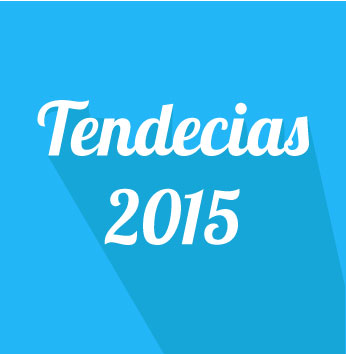
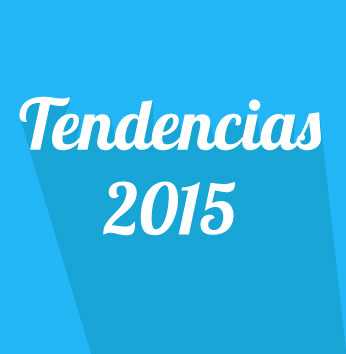
blog
se hicieron modificaciones al blog

Changed region(s): [[0.0578, 0.2486, 0.9538, 1.0], [0.9538, 0.7147, 1.0, 0.9322], [0.9827, 0.9944, 1.0, 1.0]]

diff --git a/blog.html b/blog.html
@@ -17,6 +17,10 @@ meta charset="UTF-8">
     
     <!---fuentes--->
     <link href='http://fonts.googleapis.com/css?family=Titillium+Web:400,300,600' rel='stylesheet' type='text/css'>
+     <!---Ralaway--->
+<link href='http://fonts.googleapis.com/css?family=Raleway' rel='stylesheet' type='text/css'>
+    
+    
     
     
 </head>
@@ -77,84 +81,101 @@ meta charset="UTF-8">
         
             <article class="articulo col-sm-3 text-center" value="1">
                 <div class="img-content">
-                    <img src="blog/img/tendencias.jpg" class="img-responsive" alt="foto de el barbero elegante">
+                    <img src="blog/img/coter-hombre.jpg" class="img-responsive" alt="foto de las mejores tendencias en corte masculino">
                 </div>
-                <div class="pich-noticas">
+                <a href="#">
+                    <div class="pich-noticas">
                     <br>
-                    <h3> Tendecias en peluquerías<br> para el 2015</h3><br>
-                    <span class="autor">Tecnostylo</span>
-                    <span>03:30pm</span>
-                    
-                </div>     
+                        <h3> Tendencias en peluquerías<br> para el 2015</h3><br>
+                        <span class="autor">Tecnostylo</span>
+                        <span>03:30pm</span>
+                    </div>
+                </a>
             </article>
             <article class="articulo col-sm-3 text-center" value="1">
                <div class="img-content">
-                    <img src="img/app-blog.jpg" class="img-responsive" alt="foto de el barbero elegante">
+                    <img src="blog/img/tendencias.jpg" class="img-responsive" alt="foto de el barbero elegante">
                 </div>
-                <a href="blog/mejores-peluqeurias.html"><div class="pich-noticas">
-                    <h3> top 10 peluquerías.</h3><br>
+                <a href="blog/mejores-peluqeurias.html">
+                    <div class="pich-noticas">
+                    <br>
+                    <h3> Los mejores corte de hombre del 2015.</h3><br>
                     <span class="autor">Tecnostylo</span>
-                    <span>03:30pm</span>
-                    
-                </div></a>     
+                    <span> 13 julio 2015</span>
+                    </div>
+                </a>     
             </article>
             <article class="articulo col-sm-3 text-center" value="1">
                 <div class="img-content">
-                    <img src="img/amos-blog.jpg" class="img-responsive" alt="foto de el barbero elegante">
+                    <img src="blog/img/corte-dama.jpg" class="img-responsive" alt="foto de el barbero elegante">
                 </div>
-                <div class="pich-noticas">
-                    <h3> top 10 peluquerías.</h3><br>
-                    <span>Por:{{Nombre de laentrada}}</span>
-                    <span>03:30pm</span>
+                    <a href="#">
+                        <div class="pich-noticas">
+                            <br>
+                            <h3> Mejores peinado para <br>
+                                mujeres en 205</h3><br>
+                            <span>Por:TEcnostylo</span>
+                            <span>13 julio 2015</span>
                     
-                </div>     
+                        </div>
+                    </a>
             </article>
         </section>
         <section id="Contenedor" class="row text-center ">
         
             <article class="articulo col-sm-3 text-center" value="1">
                 <div class="img-content">
-                    <img src="img/foto1.jpg" class="img-responsive" alt="foto de el barbero elegante">
+                    <br>
+                    <img src="blog/img/cabello-sin-brillo.jpg" class="img-responsive" alt="foto de el barbero elegante">
                 </div>
-                <div class="pich-noticas">
-                    <h3> top 10 peluquerías.</h3><br>
-                    <span class="autor">Tecnostylo</span>
-                    <span>03:30pm</span>
-                    
-                </div>     
+                    <a>
+                        <div class="pich-noticas">
+                            <br>
+                            <h3> Top 10 peluquerías.</h3><br>
+                            <span class="autor">Tecnostylo</span>
+                            <span>17 julio 2015</span>  
+                        </div>     
+                    </a>
             </article>
             <article class="articulo col-sm-3 text-center" value="1">
                 <div>
-                    <img src="img/foto1.jpg" class="img-responsive" alt="foto de el barbero elegante">
+                    <img src="blog/img/mejores-peluquerias.jpg" class="img-responsive" alt="foto de el barbero elegante">
                 </div>
-                <div class="pich-noticas">
-                    <h3> mejores-Apps de belleza</h3><br>
-                    <span class="autor">Tecnostylo</span>
-                    <span>03:30pm</span>
-                    
-                </div>     
+                <a href="#">
+                    <div class="pich-noticas">
+                        <br>
+                        <h3>Mejores peluquerias de Medellín</h3><br>
+                        <span class="autor">Tecnostylo</span>
+                        <span>13 julio 2015</span>
+
+                    </div> 
+                </a>
             </article>
             <article class="articulo col-sm-3 text-center" value="1">
                 <div class="img-content">
-                    <img src="img/foto1.jpg" class="img-responsive img-content" alt="foto de el barbero elegante">
+                    <img src="blog/img/barberias-top10.jpg" class="img-responsive img-content" alt="foto de el barbero elegante">
                 </div>
-                <div class="pich-noticas">
-                    <h3> top 10 peluquerías.</h3><br>
-                    <span class="autor">Tecnostylo</span>
-                    <span>03:30pm</span>
-                    
-                </div>     
+                <a href="#">
+                    <div class="pich-noticas">
+                        <br>
+                        <h3> Top 10 peluquerías.</h3><br>
+                        <span class="autor">Tecnostylo</span>
+                        <span>13 julio 2015</span>
+
+                    </div>
+                </a>
             </article>
         </section>
                 
            
-        <ul class="pagination">
+        <!--yo saldre cuando allá más contenido-->
+        <!--<ul class="pagination">
             <li><a href="#">1</a></li>
             <li><a href="#">2</a></li>
             <li><a href="#">3</a></li>
             <li><a href="#">4</a></li>
             <li><a href="#">5</a></li>
-        </ul>
+        </ul>-->
     
          <footer class="row">
             <div class="col-sm-3">

diff --git a/index.html b/index.html
@@ -11,7 +11,7 @@
     <link rel="stylesheet" href="http://maxcdn.bootstrapcdn.com/bootstrap/3.3.5/css/bootstrap.min.css">
     <script src="https://ajax.googleapis.com/ajax/libs/jquery/1.11.3/jquery.min.js"></script>
     <script src="http://maxcdn.bootstrapcdn.com/bootstrap/3.3.5/js/bootstrap.min.js"></script>
-</head>
+
     
 
 <!---stylo circulo--->
@@ -22,6 +22,20 @@
     <!---Ralaway--->
 <link href='http://fonts.googleapis.com/css?family=Raleway' rel='stylesheet' type='text/css'>
 
+    
+<script type="text/javascript">
+
+  var _gaq = _gaq || [];
+  _gaq.push(['_setAccount', 'UA-3774628-10']);
+  _gaq.push(['_trackPageview']);
+
+  (function() {
+    var ga = document.createElement('script'); ga.type = 'text/javascript'; ga.async = true;
+    ga.src = ('https:' == document.location.protocol ? 'https://ssl' : 'http://www') + '.google-analytics.com/ga.js';
+    var s = document.getElementsByTagName('script')[0]; s.parentNode.insertBefore(ga, s);
+  })();
+
+</script>
    
 </head>
 <body>
@@ -156,30 +170,28 @@
             </div>
         </section>  
     </section>    
-    <footer class="row">
+  <footer class="row">
             <div class="col-sm-3">
-                <p> 
-                <br>
+                <p>
                 <strong>Dirección</strong> Crr 83 #17- 103
                 <em>info@tecnostylo.com</em><br>
                 <strong>telefono</strong>3421234.<br>
                 </p>
             </div>
             <div class="col-sm-3">
-                <p> 
                 <ul>
                     <li>políticas</li>
                     <li>En que creemos</li>
                     <li>Información</li>
                 </ul>
             </div >
-             <br>
             <div id="redes-sociales" class="col-sm-3">
-                <a  href="https://www.facebook.com/tecnostylo" TARGET="_blank"><img class="img-responsive icon-redes"  src="img/facebook.png"></a>
-                <a href="https://instagram.com/tecnostylo/"  TARGET="_blank"><img class="img-responsive icon-redes" src="img/instagram.png"></a>
-                <a href="https://twitter.com/tecnostylo" TARGET="_blank" ><img class="img-responsive icon-redes" src="img/twitter.png"></a>
+                    
+                <img class="img-responsive icon-redes" src="img/facebook.png">
+                <img class="img-responsive icon-redes" src="img/instagram.png">
+                <img class="img-responsive icon-redes" src="img/twitter.png">
             </div>
-        </footer>
+        </footer>   
     
     
 </body>

diff --git a/css/styles.css b/css/styles.css
@@ -1,0 +1,103 @@
+@charset "UTF-8";
+
+
+/* WebDesignAndSuch.com Demo */
+
+/* demo page styles */
+body {
+	font-family:Arial, Helvetica, sans-serif;
+	font-size:13px;
+	background:url(images/back.jpg);
+	margin: 0; 
+	padding: 0;
+	color: #000;
+}
+
+#container {
+	width: 780px;  
+	background:#fff;
+	margin: 0 auto; 
+	-webkit-box-shadow: 0px 0px 15px #000;
+	-moz-box-shadow: 0px 0px 15px #000;
+	height:720px
+}
+#content {padding: 0 20px; }
+
+img {border:0px;}
+
+a:link, a:visited {color:#88b0dc; text-decoration:none}
+a:hover, a:active {color:#CC5500; text-decoration:none}
+
+.info {width:800px; margin:0 auto; color:#666; margin-top:50px; text-align:center; font-size:12px; padding-bottom:25px;}
+.info a:link, .info a:visited {color:#ccc}
+.info a:hover, .info a:active {color:#fff}
+
+h2 {font-size:22px; color:#369; text-align:center}
+.content {margin:40px 0 0 0; }
+
+.imageOuter {width:350px; float:left; margin:0 37px 0 0}
+
+
+
+/* demo specific styles */
+
+
+/* jquery-method */
+
+span.roll {
+    background:url(images/mag.png) center center no-repeat #000;
+    height: 346px;
+    position: absolute;
+    width: 347px;
+    z-index: 10;	
+	-webkit-box-shadow: 0px 0px 4px #000;
+	-moz-box-shadow: 0px 0px 4px  #000;
+	box-shadow: 0px 0px 4px  #000; 
+} 
+ 
+ 
+ 
+
+
+
+
+
+
+/* css-method */
+
+
+span.rollover {
+	opacity: 1;
+	-o-transition-duration: 1s;
+	-moz-transition-duration: 1s;
+	-webkit-transition: -webkit-transform 1s;
+	background:url(images/mag.png) center center no-repeat #000;
+	cursor: pointer;
+	height: 346px;
+	width: 347px;
+	position: absolute;
+	z-index: 10;
+	opacity: 0;
+}
+
+span.rollover:hover {
+	opacity: .7;
+	-o-transition-duration: 1s;
+	-moz-transition-duration: 1s;
+	-webkit-transition: -webkit-transform 1s;
+	-webkit-box-shadow: 0px 0px 4px #000;
+	-moz-box-shadow: 0px 0px 4px #000;
+	box-shadow: 0px 0px 4px #000;
+}
+
+
+
+
+
+
+
+
+
+
+
+

diff --git a/js/custom.js b/js/custom.js
@@ -1,0 +1,22 @@
+$(function() {
+// OPACITY OF BUTTON SET TO 0%
+$(".roll").css("opacity","0");
+ 
+// ON MOUSE OVER
+$(".roll").hover(function () {
+ 
+// SET OPACITY TO 70%
+$(this).stop().animate({
+opacity: .7
+}, "slow");
+},
+ 
+// ON MOUSE OUT
+function () {
+ 
+// SET OPACITY BACK TO 50%
+$(this).stop().animate({
+opacity: 0
+}, "slow");
+});
+});
